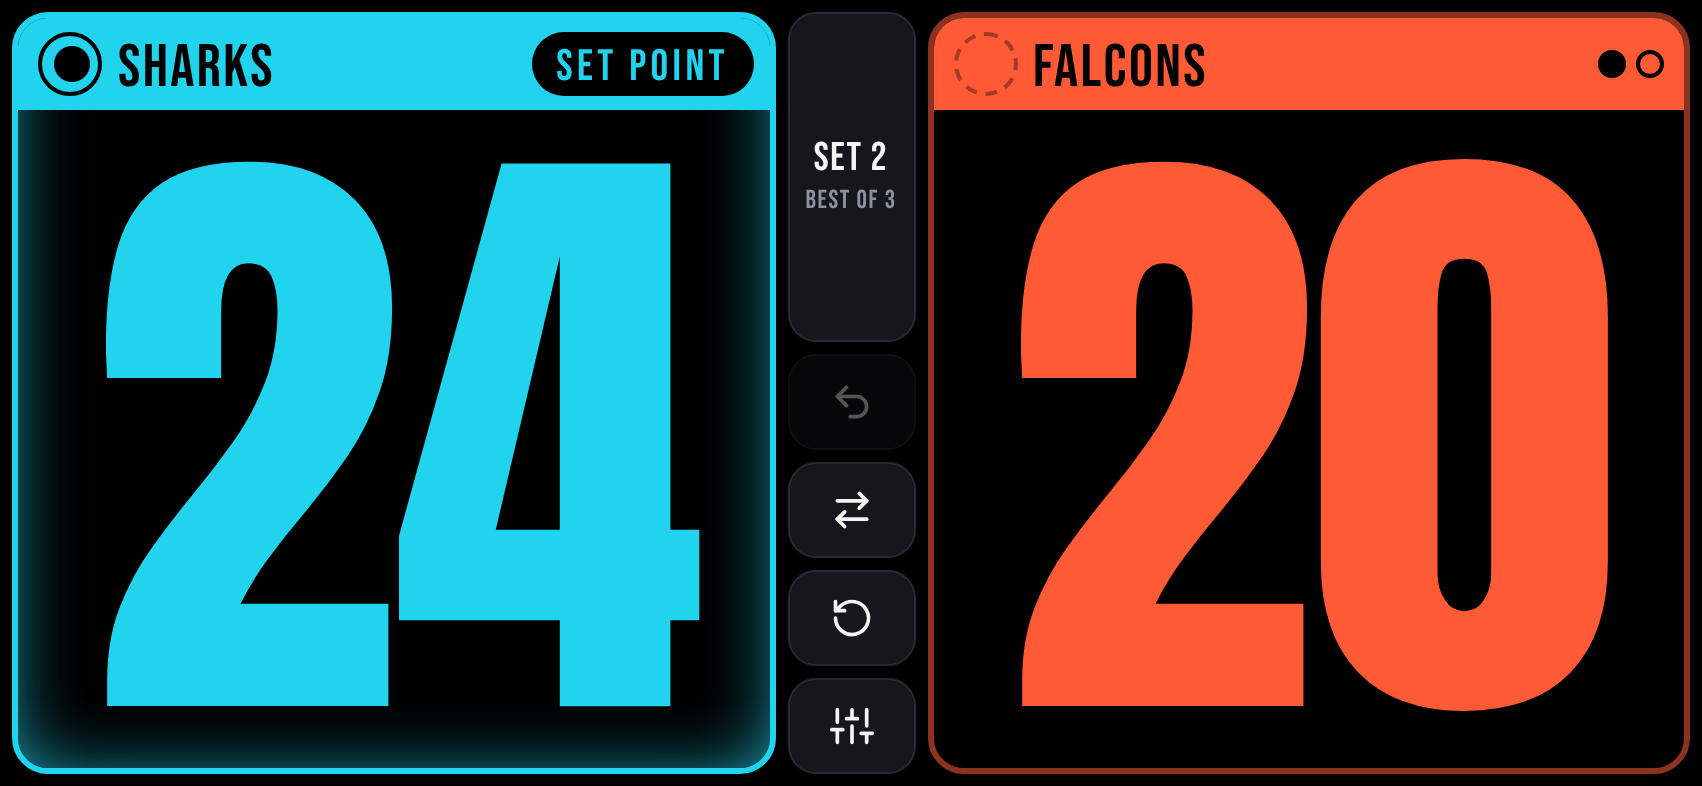
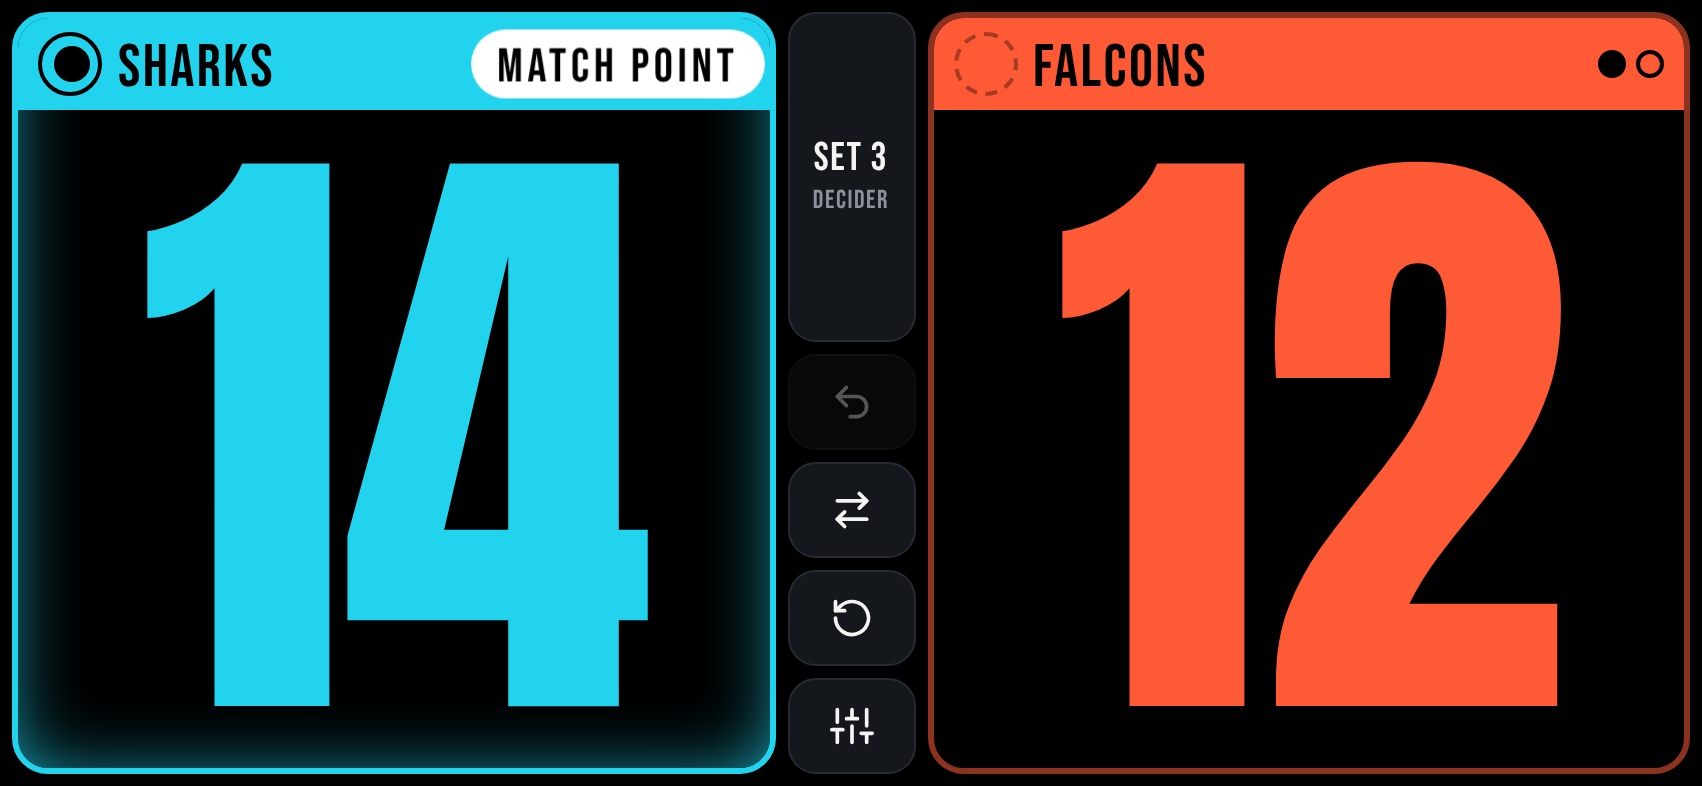
Polish README

diff --git a/README.md b/README.md
@@ -2,10 +2,10 @@
 
 <img src="icons/icon-192.png" width="96" alt="Rally icon" />
 
-# Rally — Volleyball Scoreboard
+# Rally
 
-**A fast, ad-free volleyball scoreboard that installs on your phone like a real app.**
-Tap to score, read it from across the court, and never watch an ad to reset 0–0 again.
+**Ad-free volleyball scoreboard you can install on your phone.**
+Tap to score, read it from across the court, and reset to 0–0 without sitting through an ad.
 
 **Live Site:** [https://alex-gamero.github.io/volley-score/](https://alex-gamero.github.io/volley-score/)
 
@@ -21,21 +21,14 @@ Tap to score, read it from across the court, and never watch an ad to reset 0–
 
 ---
 
-## Why I built it
-I play open volleyball, and I was keeping score with a free app from the Play Store. Every time I reset the score to 0, it showed me a full-screen ad. It happened every set, every game.
-
-So I built my own. Rally has **no ads, no accounts and no tracking**. It runs offline in the gym, and it's designed so the people on the court can read the score from far away.
-
----
-
 ## Features
 | | |
 |---|---|
-| 🏐 **Real volleyball rules** | Sets to 11 / 15 / 21 / 25, win by 2, single set or best of 3 / 5, plus a shorter deciding set |
+| 🏐 **Real volleyball rules** | Sets to 11, 15, 21 or 25, win by 2, single set or best of 3 / 5, plus a shorter deciding set |
 | 👀 **Readable from the court** | Full-height numbers in a heavy display font, bright team colors on pure black |
-| 🎯 **SET POINT / MATCH POINT** | Shows automatically. Match point pulses so nobody misses it. |
+| 🎯 **Set point & match point** | Shows up automatically, and match point pulses so nobody misses it |
 | 🔄 **Serve tracking** | The serve indicator follows the rally winner, and the serving side glows |
-| ↔ **Side switching** | Swaps sides after each set, with a *SWITCH SIDES* alert at 8 in the deciding set |
+| ↔ **Side switching** | Switches sides after each set, with a *SWITCH SIDES* alert at 8 in the deciding set |
 | ↩ **Unlimited undo** | Fixes any mistake, even after a set or match has ended |
 | 🎨 **Team names & colors** | 8 high-contrast colors to pick from |
 | 📴 **Works offline** | A service worker caches everything after the first load |
@@ -45,15 +38,9 @@ So I built my own. Rally has **no ads, no accounts and no tracking**. It runs of
 ---
 
 ## Screenshots
-<div align="center">
-
-**Set point, best of 3**
-<img src="assetsREADME/scoreboard.png" width="720" alt="Scoreboard showing set point" />
-
-**Setup**
-<img src="assetsREADME/setup.png" width="720" alt="Setup panel" />
-
-</div>
+| Match point in the deciding set | Match won |
+|:---:|:---:|
+| <img src="assetsREADME/scoreboard.png" width="420" alt="Scoreboard at match point" /> | <img src="assetsREADME/match-won.png" width="420" alt="Match won card" /> |
 
 ---
 
@@ -72,9 +59,9 @@ When a set ends, a card shows the winner and the score. Tap **Next set** to keep
 ## Install it on your phone (Android)
 1. Open **[alex-gamero.github.io/volley-score](https://alex-gamero.github.io/volley-score/)** in **Chrome**.
 2. Tap **⋮ → Add to Home screen → Install**.
-3. Launch it from your home screen. It opens fullscreen and sideways, like a native app.
+3. Open it from your home screen. It runs fullscreen and sideways, like a native app.
 
-You don't need the Play Store. Updates install themselves the next time you open the app with internet on.
+You don't need the Play Store. The app updates itself the next time you open it with internet on.
 
 ---
 
